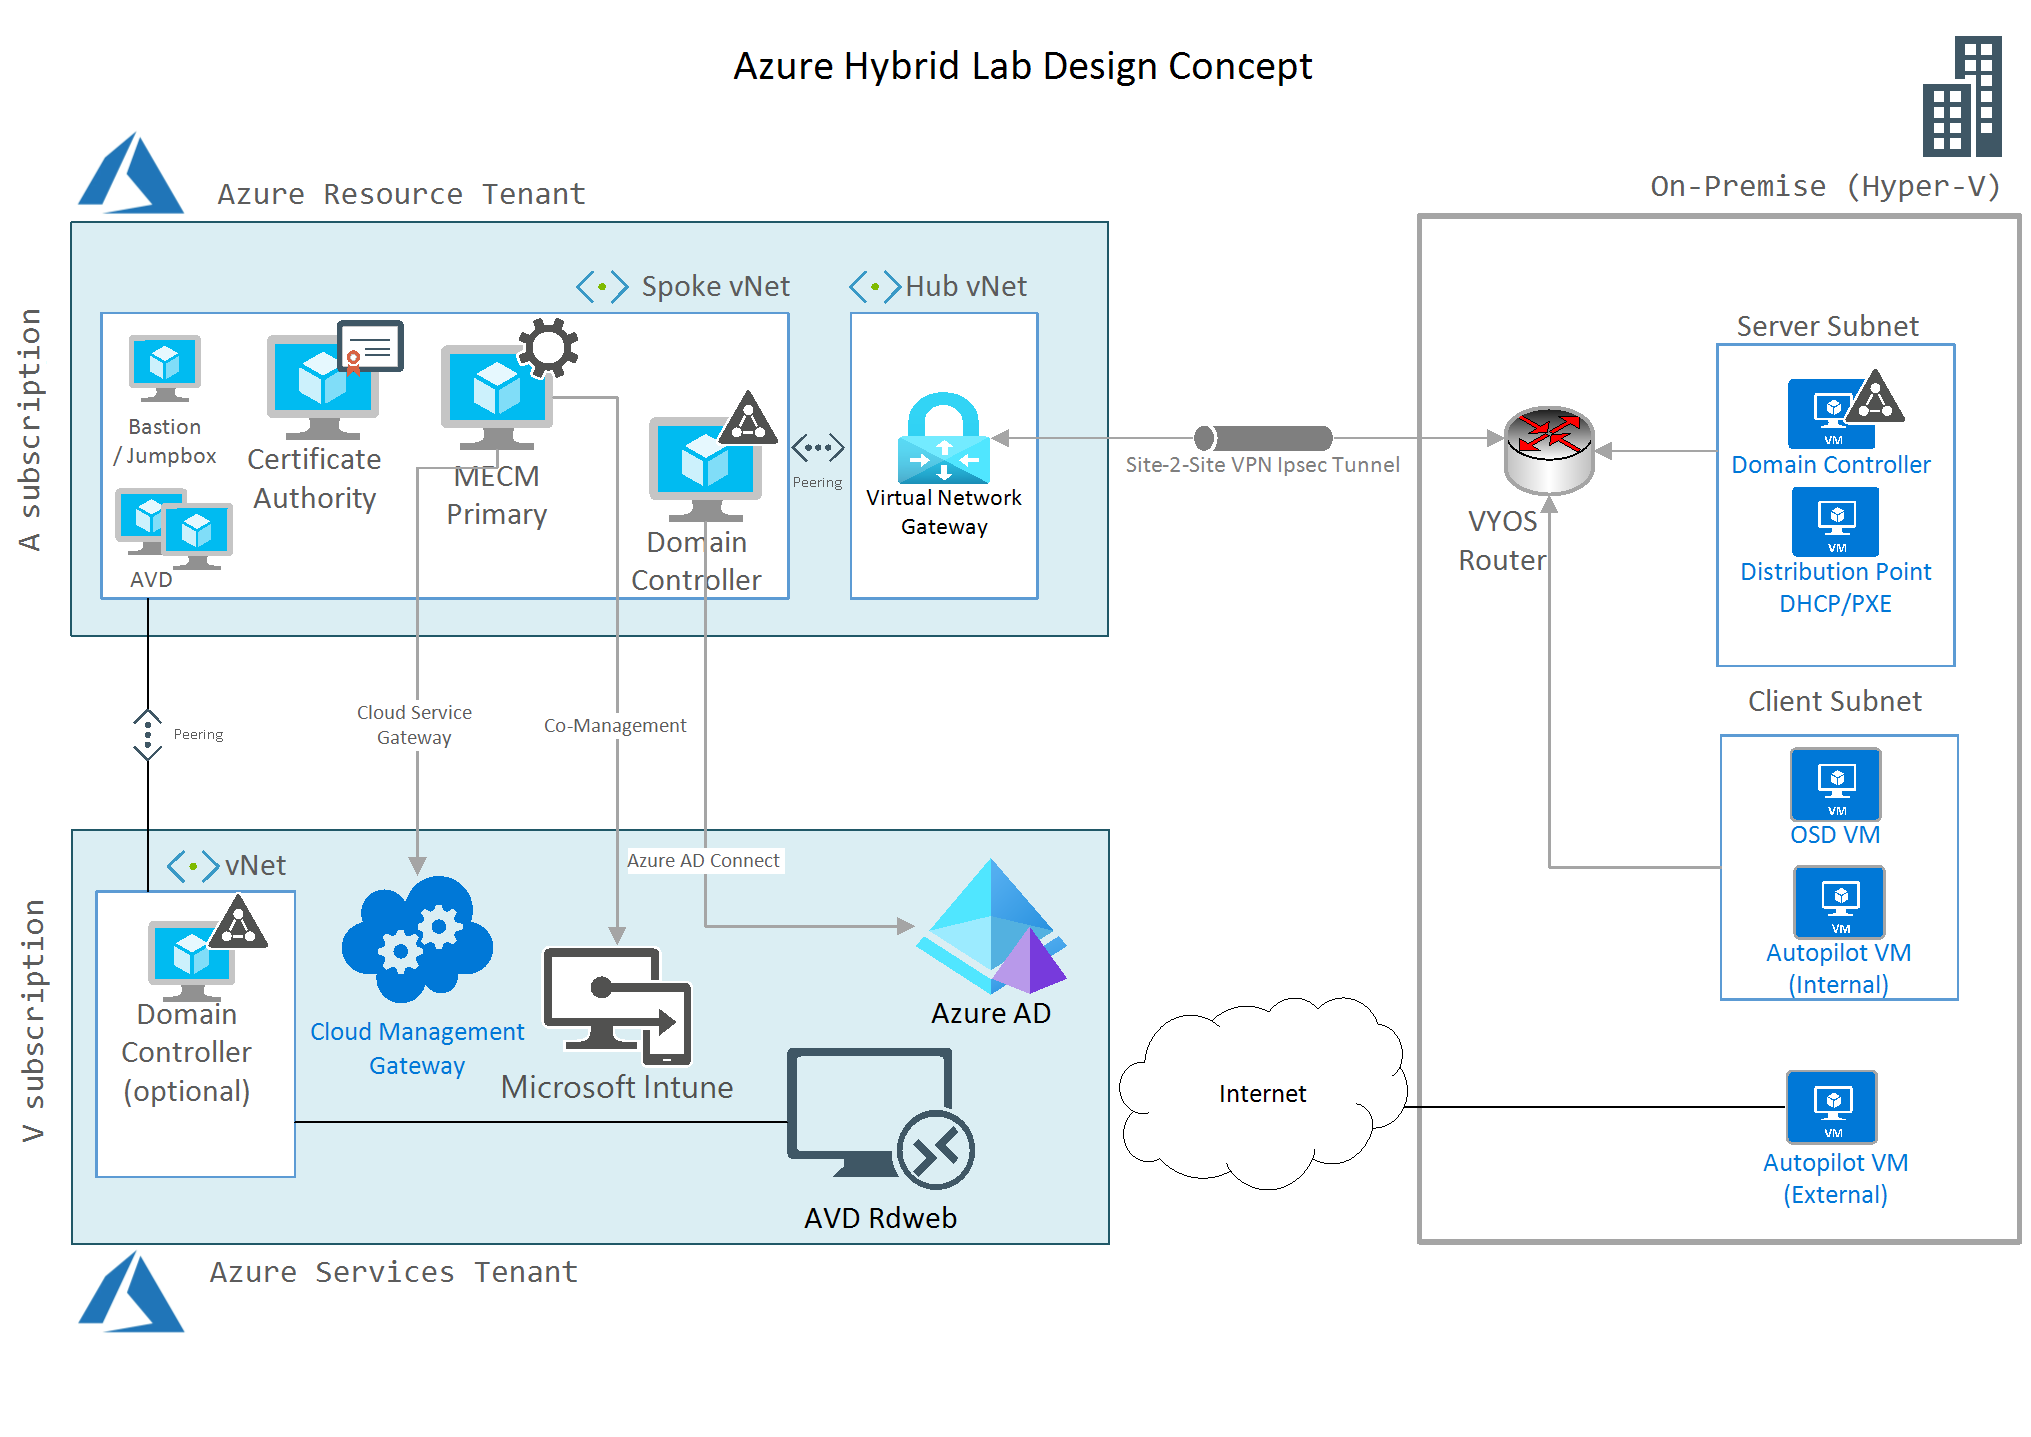
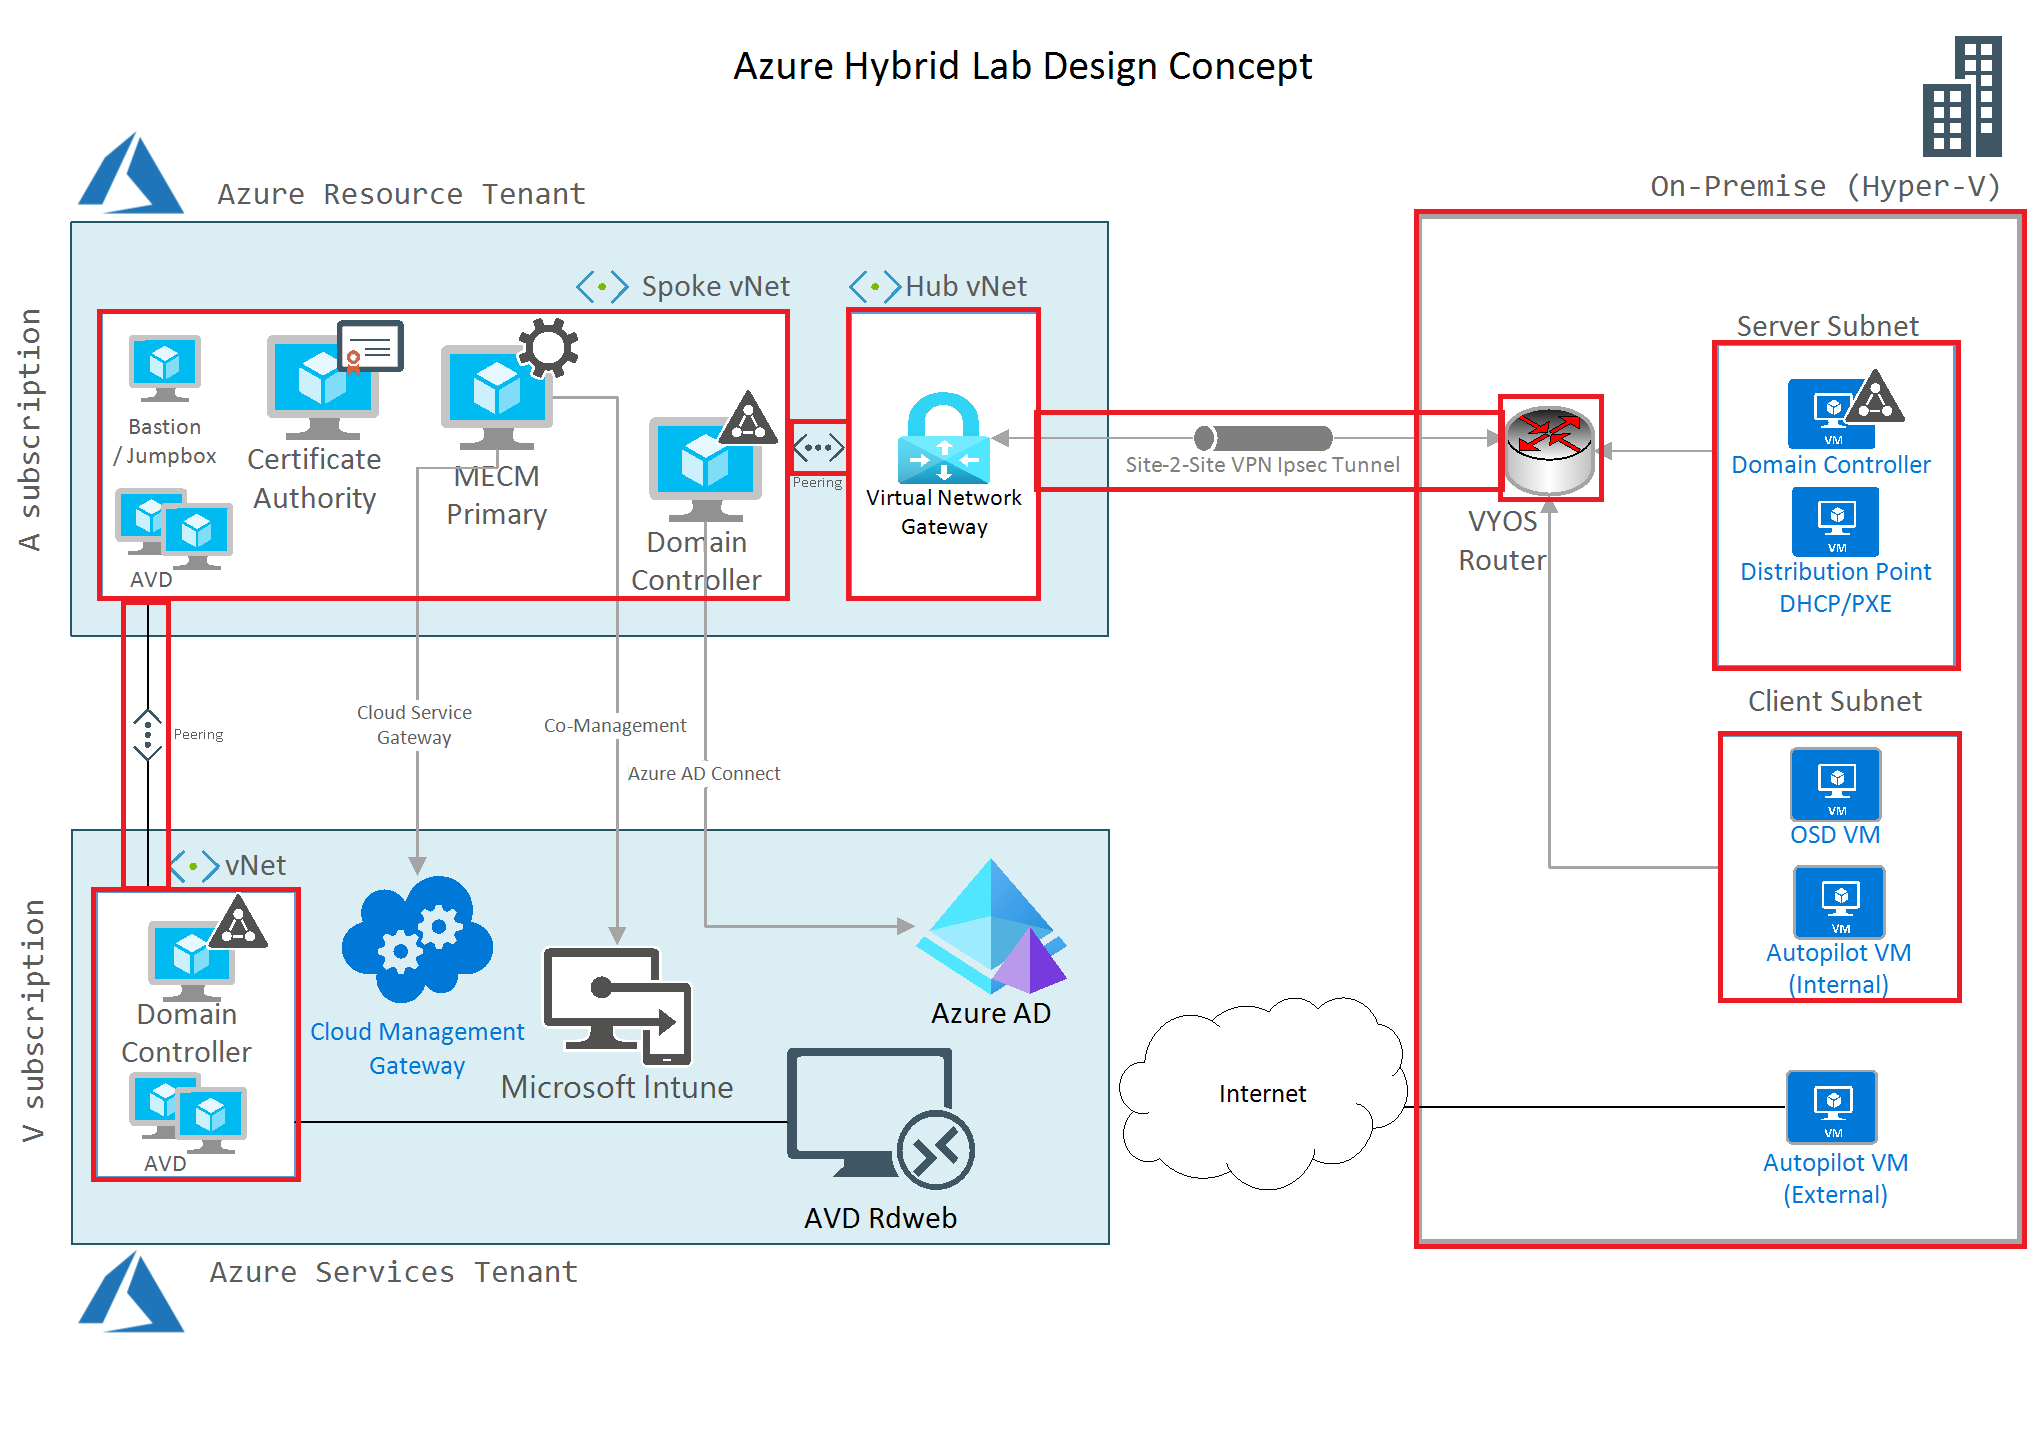
check vnet subnets if already created

diff --git a/CHANGELOG.md b/CHANGELOG.md
@@ -1,5 +1,13 @@
 # Change log for AzureSite2SiteVPNLab
 
+## 1.3.9 - January 13, 2022
+
+- check vNet for subnets; ensure vNet has required subnets added if vNet is already provisioned
+- Changed concept image; highlighted areas the scripts perform
+- Change global variable for sharedkey; to clarify which keys are set
+- Added variable for simple network appendix; allows more customization
+- Updated transaction log output
+
 ## 1.3.8 - January 12, 2022
 
 - fixed static routes on VyOS; was using local subnets and changed to azure subnets
